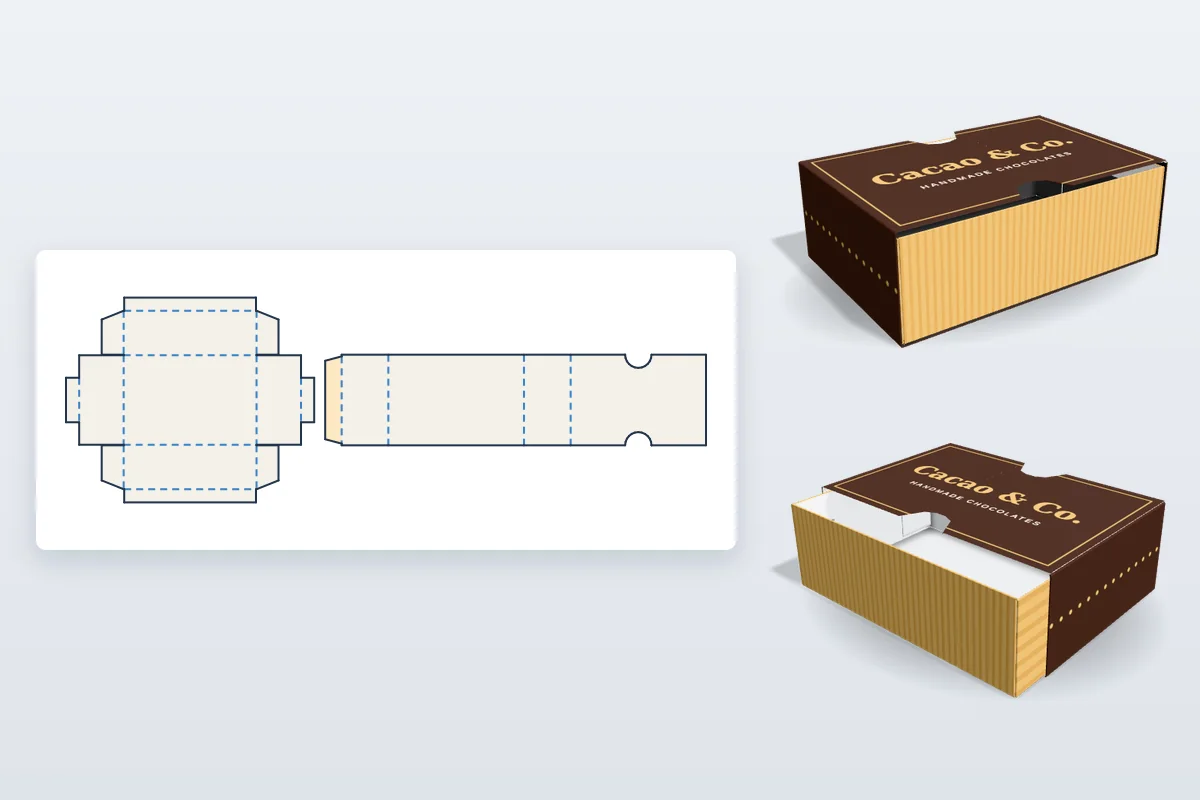
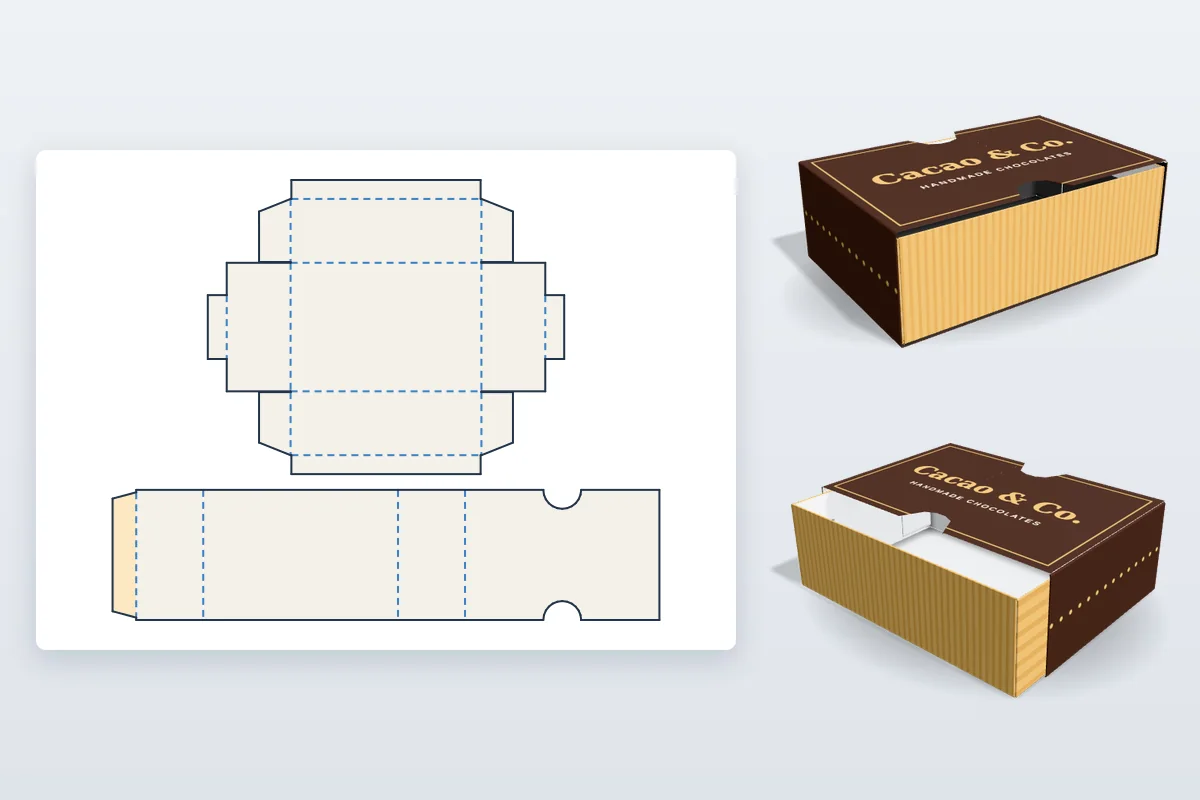
Drawer box: cut the sleeve below the tray, so the sheet is near square
Side by side the two pieces made a sheet three times as wide as it was
tall. The sleeve now lies below the tray, centred on it, and in 3D it lines
up in front of the tray and slides on over it from the front.

Claude-Session: https://claude.ai/code/session_01QeanJ5XcsmBb9fnQSqUjJ7

diff --git a/src/lib/packaging/parametric/definitions/drawer-box.ts b/src/lib/packaging/parametric/definitions/drawer-box.ts
@@ -4,7 +4,7 @@ import { panelRegions } from './artwork-regions';
 import { finish, tray, trayHinges } from './rigid-lid-base';
 
 // A drawer box: a tray that slides in and out of a sleeve, like a matchbox.
-// Both are cut side by side on one sheet.
+// Both are cut on one sheet, the sleeve below the tray.
 //
 // The tray is the rigid box's base tray (rigid-lid-base.ts): a bottom and
 // four walls, ears on the front and back walls that wrap the corners inside
@@ -110,11 +110,15 @@ export const drawerBoxDefinition = {
     // Crease to crease; the top, which the glue flap is stuck to, takes half a board less.
     ['sideW', 'innerH + t'], ['bottomW', 'innerW + t'], ['topW', 'innerW + t / 2'],
     ['notchR', 'max(3, min(12, innerW / 5, sleeveL / 6))'],
-    // Sheet: the tray on the left, the sleeve on the right, both centred on one line.
-    ['baseX0', 'max(baseH + baseTurn, baseEar)'],
+    // Sheet: the tray on top and the sleeve below it, centred on each other,
+    // so the sheet is about as tall as it is wide.
+    ['trayWide', 'baseW + 2 * max(baseH + baseTurn, baseEar)'],
+    ['sleeveWide', 'glue + 2 * sideW + bottomW + topW'],
+    ['shift', '(sleeveWide - trayWide) / 2'],
+    ['baseX0', 'max(baseH + baseTurn, baseEar) + max(0, shift)'],
     ['baseY0', 'baseH + baseTurn'],
-    ['sleeveX0', 'baseX0 + baseW + max(baseH + baseTurn, baseEar) + 10'],
-    ['sy0', 'max(0, baseY0 + baseD / 2 - sleeveL / 2)'], ['sy1', 'sy0 + sleeveL'],
+    ['sleeveX0', 'max(0, -shift)'],
+    ['sy0', 'baseY0 + baseD + baseH + baseTurn + 10'], ['sy1', 'sy0 + sleeveL'],
     ['xLeft', 'sleeveX0 + glue'], ['xBottom', 'xLeft + sideW'], ['xRight', 'xBottom + bottomW'], ['xTop', 'xRight + sideW'],
     ['notchX', 'xTop + topW / 2'],
   ],
@@ -145,8 +149,8 @@ export const drawerBoxDefinition = {
     { text: 'Artwork prints exactly as laid out on the design grid, including the turn-ins.' },
   ],
   // The tray folds up as the rigid box's base does, and the sleeve folds
-  // into a tube beside it. Then the sleeve moves behind the tray and slides
-  // on over it; opening pulls the drawer out of the front.
+  // into a tube in front of it. Then the sleeve lines up with the tray and
+  // slides on over it from the front; opening pulls the drawer out again.
   fold: {
     root: 'bottom',
     thickness: 'max(0.05, min(thickness, min(width, depth) * 0.06))',
@@ -162,16 +166,16 @@ export const drawerBoxDefinition = {
       ['turnTop', 'stage(formation, 0.4, 0.6) * (pi / 2)'],
       // The whole box stands on the floor, centred on the closed sleeve.
       ['floor', '-(innerH + 2 * foldT) / 2'],
-      // The sleeve moves round behind the tray, then slides on over it; the
-      // tray rises a board to rest on the sleeve's bottom.
+      // The sleeve lines up in front of the tray, then slides on over it;
+      // the tray rises a board to rest on the sleeve's bottom.
       ['across', 'stage(formation, 0.62, 0.8)'],
       ['slideOn', 'stage(formation, 0.8, 1)'],
       ['trayLift', 'across * foldT * 1.05'],
       ['trayCx', 'bottom.x + bottom.width / 2'], ['trayCy', 'bottom.y + bottom.height / 2'],
       ['sleeveCx', 'sleeveBottom.x + sleeveBottom.width / 2'], ['sleeveCy', 'sleeveBottom.y + sleeveBottom.height / 2'],
-      ['behind', '-(sleeveL + 15)'],
+      ['ahead', 'sleeveL + 15'],
       ['sleeveX', '(1 - across) * (trayCx - sleeveCx)'],
-      ['sleeveZ', '(1 - across) * (sleeveCy - trayCy) + across * (1 - slideOn) * behind'],
+      ['sleeveZ', '(1 - across) * (sleeveCy - trayCy) + across * (1 - slideOn) * ahead'],
       // Opening pulls the drawer out of the sleeve's front.
       ['pull', 'stage(opening, 0, 1) * sleeveL * 0.6'],
     ],

diff --git a/src/content/blogPosts.ts b/src/content/blogPosts.ts
@@ -2463,11 +2463,11 @@ export const BLOG_POSTS: BlogPost[] = [
     published: "2026-10-15",
     readMinutes: 6,
     keywords: ["how to make a drawer box","drawer box template","drawer box dieline","sleeve and tray box","slide box template","matchbox style box","sliding gift box","box with sleeve"],
-    imageAlt: "A drawer box dieline with the tray and sleeve side by side, next to the folded drawer box closed and slid open",
+    imageAlt: "A drawer box dieline with the tray above its sleeve, next to the folded drawer box closed and slid open",
     relatedSlugs: ["gift-box-packaging-luxury-preview","jewelry-packaging-box-mockup","box-dieline-svg-dxf-export"],
     faqs: [
       { question: "What is a drawer box?", answer: "A box in two parts: a tray that holds the product and a sleeve it slides into, like a matchbox. It is also called a slide box or a sleeve and tray box." },
-      { question: "Is there a free drawer box template?", answer: "Yes. The drawer box template in 3D Box Studio is free. Enter the inside size of the tray and it draws the tray and the sleeve side by side, with corner ears, turn-ins and thumb notches, and shows the drawer sliding in 3D. Designing and exporting need a free account." },
+      { question: "Is there a free drawer box template?", answer: "Yes. The drawer box template in 3D Box Studio is free. Enter the inside size of the tray and it draws the tray and the sleeve on one sheet, with corner ears, turn-ins and thumb notches, and shows the drawer sliding in 3D. Designing and exporting need a free account." },
       { question: "How much bigger should the sleeve be than the tray?", answer: "A little: the template adds about a board's thickness of play on each side and above, so the tray slides without rattling. You can change the sleeve play in the Studio; thicker board and heavier products need a little more." },
       { question: "Does the tray need glue?", answer: "No. Its front and back walls have ears that wrap the corners, and every wall has a turn-in that folds over inside it and holds the ears in place. A dot of glue under each turn-in makes it sturdier. Only the sleeve is glued, along its glue flap." },
       { question: "Can I download the drawer box dieline?", answer: "Yes. Export a 1:1 PDF with your artwork, bleed and cut and crease lines, or the cutting template on its own as SVG or DXF for a die maker, cutting table, Cricut or laser cutter." },
@@ -2482,7 +2482,7 @@ export const BLOG_POSTS: BlogPost[] = [
         "The sleeve is a tube: two sides, a bottom and a top, glued along one edge and open at both ends. It is sized round the tray with a little play.",
         "A half-round thumb notch at each end of the sleeve's top lets you push the tray out from either side."
       ] },
-      { type: "callout", text: "You can watch this in the Studio: open the [drawer box template](/box-templates/drawer-box) and drag the fold slider. The tray and sleeve fold up side by side, then the sleeve slides on over the tray; the open slider pulls the drawer out." },
+      { type: "callout", text: "You can watch this in the Studio: open the [drawer box template](/box-templates/drawer-box) and drag the fold slider. The tray and sleeve fold up, then the sleeve slides on over the tray from the front; the open slider pulls the drawer out." },
       { type: "h2", text: "Choosing the size" },
       { type: "ul", items: [
         "Width: the inside of the tray from side to side.",

diff --git a/src/content/box-template-pages.ts b/src/content/box-template-pages.ts
@@ -532,7 +532,7 @@ export const BOX_TEMPLATE_PAGES: BoxTemplatePage[] = [
       { label: 'Phone accessory', note: 'Retail', width: 90, height: 25, depth: 170, unit: 'mm' },
       { label: '4 × 4 × 2 in', note: 'US gift drawer', width: 4, height: 2, depth: 4, unit: 'in' },
     ],
-    geometryNote: 'Cutting template: a tray (a bottom, four walls, ears on the front and back walls that wrap the corners inside the side walls, and a turn-in on every wall) beside a sleeve (a glue flap, two sides, a bottom and a top with a half-round thumb notch at each end). Width, depth and height are the inside of the tray; the sleeve fits round it with a little play, which you can change in the Studio. Ask your printer to confirm the allowances for their board.',
+    geometryNote: 'Cutting template: a tray (a bottom, four walls, ears on the front and back walls that wrap the corners inside the side walls, and a turn-in on every wall) above a sleeve (a glue flap, two sides, a bottom and a top with a half-round thumb notch at each end). Width, depth and height are the inside of the tray; the sleeve fits round it with a little play, which you can change in the Studio. Ask your printer to confirm the allowances for their board.',
     sections: [
       {
         title: 'What is a drawer box?',
@@ -540,7 +540,7 @@ export const BOX_TEMPLATE_PAGES: BoxTemplatePage[] = [
       },
       {
         title: 'What is on the dieline',
-        body: 'The template draws both parts side by side on one sheet, from your three measurements.',
+        body: 'The template draws both parts on one sheet, the tray above the sleeve, from your three measurements.',
         bullets: [
           'The tray: a bottom and four walls, with ears on the front and back walls that fold round the corners and turn-ins that fold over inside every wall, so the walls are double and hold together without glue.',
           'The sleeve: a glue flap, two sides, a bottom and a top, glued into a tube open at both ends.',

diff --git a/src/content/changelog.ts b/src/content/changelog.ts
@@ -21,8 +21,8 @@ export const releases: Release[] = [
     tags: ['New'],
     landingPage: { href: '/box-templates/drawer-box', label: 'See the drawer box template' },
     highlights: [
-      'The dieline has the tray, with corner ears and turn-ins for double walls, and its sleeve, with a thumb notch at each end, side by side on one sheet.',
-      'In 3D the tray and sleeve fold up, the sleeve slides on over the tray, and opening pulls the drawer out of the front.',
+      'The dieline has the tray, with corner ears and turn-ins for double walls, and below it its sleeve, with a thumb notch at each end, on one sheet.',
+      'In 3D the tray and sleeve fold up, the sleeve slides on over the tray from the front, and opening pulls the drawer out again.',
       'Set the sleeve play, turn-ins, thumb notches and glue flap in the Studio.',
     ],
   },
